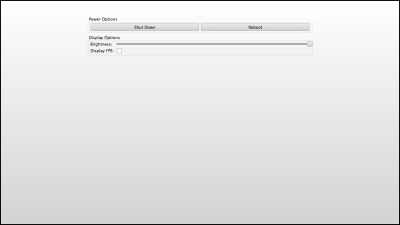
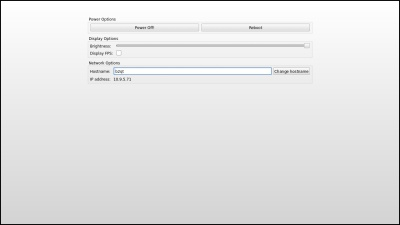
Add IP and hostname info to Launcher Settings app

diff --git a/basicsuite/Launcher Settings/main.qml b/basicsuite/Launcher Settings/main.qml
@@ -31,6 +31,11 @@ Rectangle {
         source: "BrightnessController.qml"
     }
 
+    Loader {
+        id: networkControllerLoader
+        source: "NetworkController.qml"
+    }
+
     Flickable {
         anchors.top: parent.top
         anchors.horizontalCenter: parent.horizontalCenter
@@ -106,6 +111,40 @@ Rectangle {
                     CheckBox {
                         onCheckedChanged: engine.fpsEnabled = checked;
                     }
+                }
+            }
+
+            GroupBox {
+                id: networkOptions
+                title: "Network Options"
+
+                Layout.fillWidth: true
+
+                GridLayout {
+                    id: networkGrid
+
+                    rows: 2
+                    columns: 3
+                    flow: GridLayout.TopToBottom
+                    anchors.fill: parent
+
+                    Label { text: "Hostname: "; }
+                    Label { text: "IP address: "; }
+
+                    TextField {
+                        id: hostname
+                        text: if (networkControllerLoader.item != undefined) { networkControllerLoader.item.getHostname(); }
+                        Layout.fillWidth: true
+                    }
+
+                    Label { text: if (networkControllerLoader.item != undefined) { networkControllerLoader.item.getIPAddress(); } }
+
+                    Button {
+                        text: "Change hostname"
+                        onClicked: networkControllerLoader.item.setHostname(hostname.text);
+                        enabled: networkControllerLoader.item != undefined
+                    }
+
                 }
             }
         }

diff --git a/basicsuite/Launcher Settings/NetworkController.qml b/basicsuite/Launcher Settings/NetworkController.qml
@@ -1,0 +1,21 @@
+import QtDroid.Utils 1.0
+import QtQuick 2.0
+
+QtObject {
+
+    function getIPAddress()
+    {
+        return DroidUtils.getIPAddress()
+    }
+
+    function getHostname()
+    {
+        return DroidUtils.getHostname()
+    }
+
+    function setHostname(value)
+    {
+        return DroidUtils.setHostname(value)
+    }
+
+}
